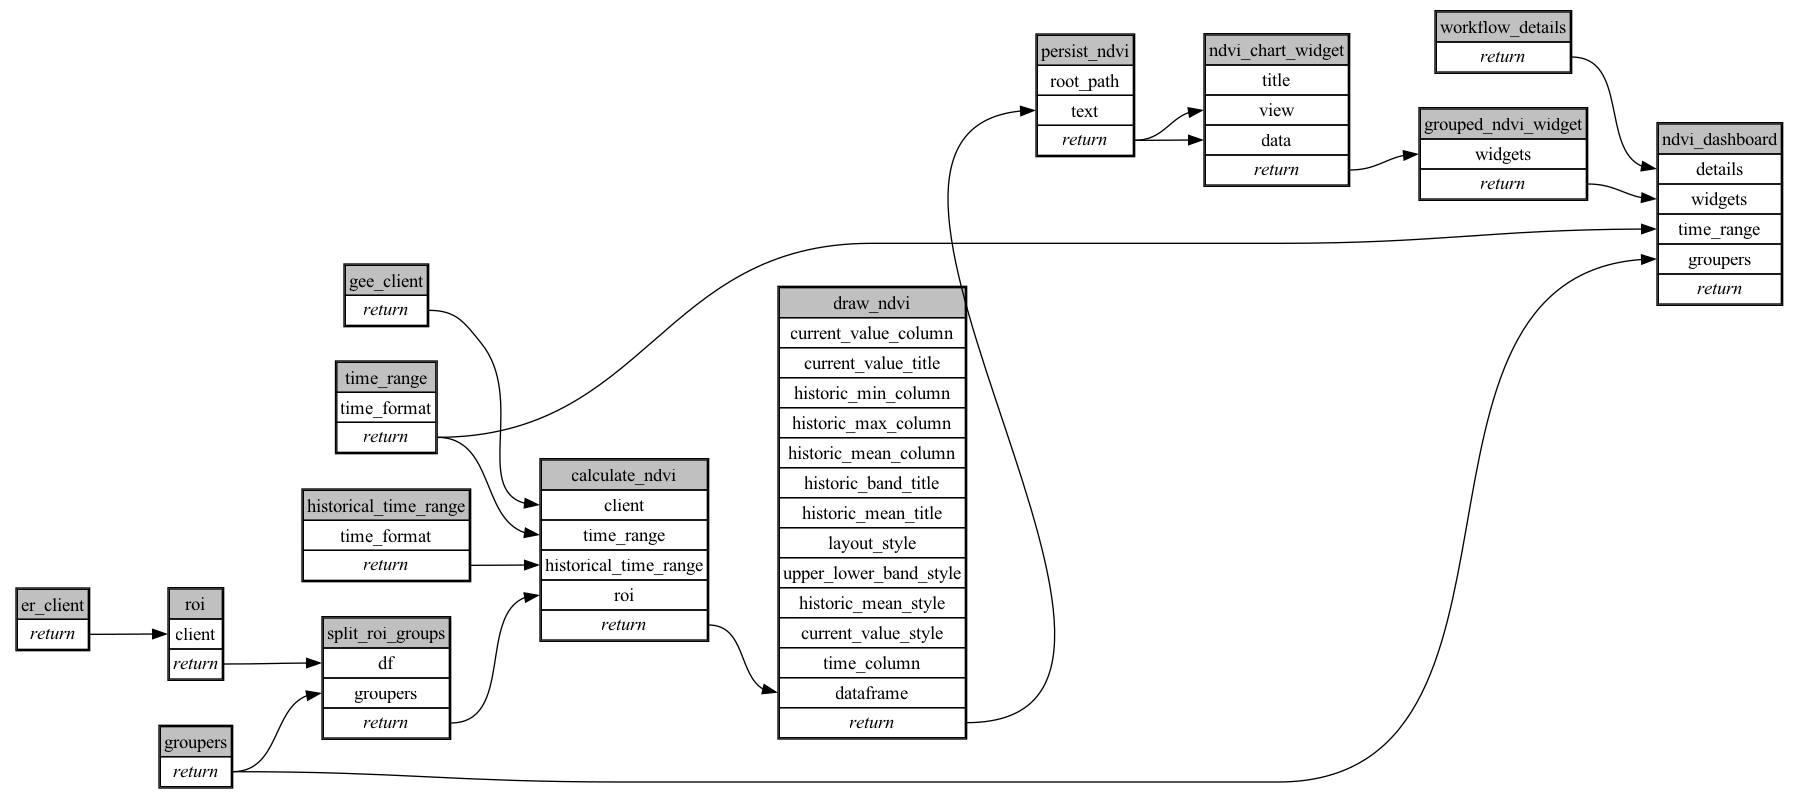
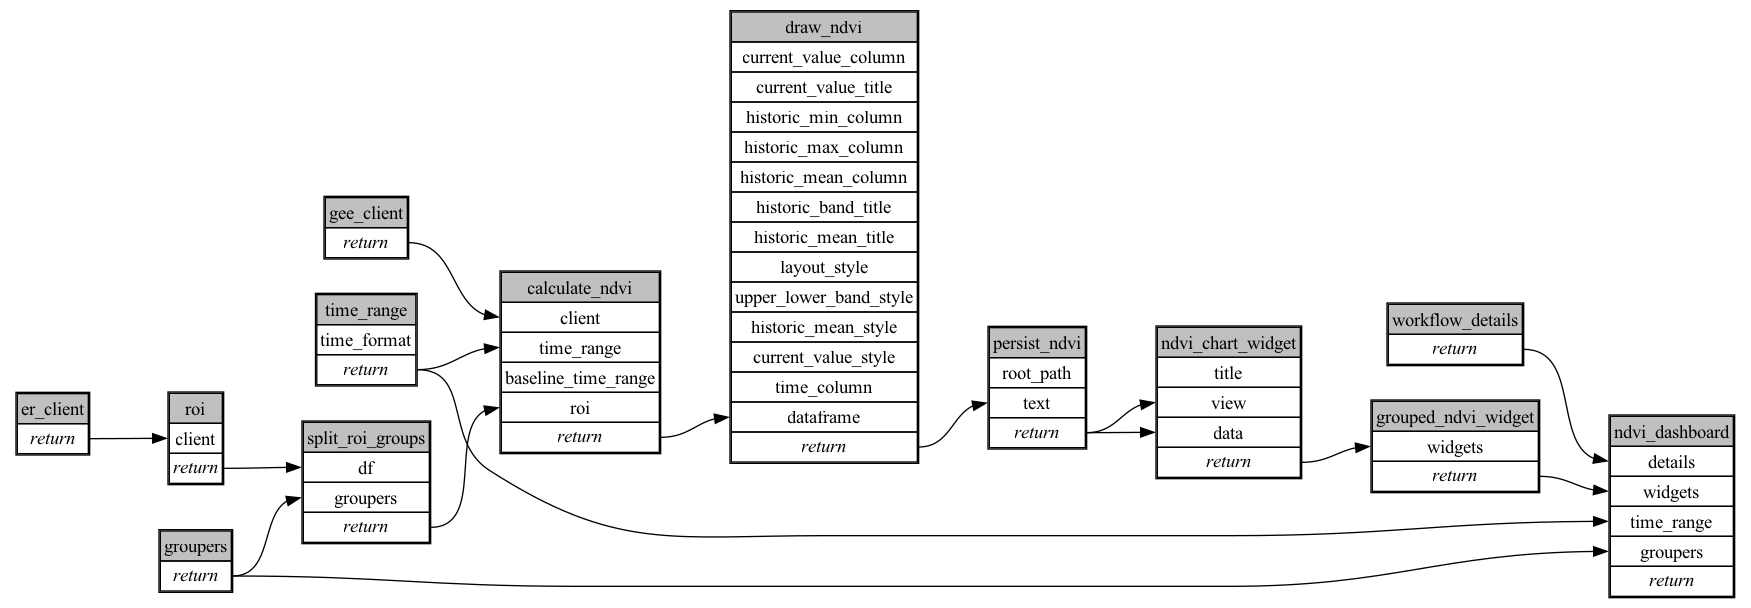
feat: remove historical_time_range, use image_size mode
- Remove historical_time_range task from spec
- Set baseline_time_range to null (Mode A default)
- Remove historical_time_range from all test cases
- Recompile workflow

Changed region(s): [[0.0, 0.0, 1.0, 1.0]]

diff --git a/ecoscope-workflows-ndvi-workflow/ecoscope_workflows_ndvi_workflow/formdata.py b/ecoscope-workflows-ndvi-workflow/ecoscope_workflows_ndvi_workflow/formdata.py
@@ -32,6 +32,11 @@ class CalculateNdvi(BaseModel):
     model_config = ConfigDict(
         extra="forbid",
     )
+    image_size: int | None = Field(
+        1000000000,
+        description="Number of historical satellite images to fetch. Set to a large value to retrieve all available historical data. Only used when baseline_time_range is not provided.",
+        title="Image Size",
+    )
     ndvi_method: NdviMethod | None = Field(
         "precomputed",
         description="Method to obtain NDVI values. 'precomputed': Uses MODIS MYD13A1 16-day composite with pre-calculated NDVI. Provides quality-filtered 'best pixel' values at 500m resolution with ~0.025 accuracy. Better for phenology studies but may saturate in dense canopies. 'calculated': Uses MODIS MCD43A4 daily NBAR (nadir BRDF-adjusted reflectance). Computes NDVI from NIR/Red bands with view-angle correction for consistent measurements. Higher temporal resolution but more susceptible to cloud gaps.",
@@ -149,15 +154,6 @@ class TimeRange(BaseModel):
     timezone: TimezoneInfo | None = Field(None, title="Timezone")
 
 
-class HistoricalTimeRange(BaseModel):
-    model_config = ConfigDict(
-        extra="forbid",
-    )
-    since: datetime = Field(..., description="The start time", title="Since")
-    until: datetime = Field(..., description="The end time", title="Until")
-    timezone: TimezoneInfo | None = Field(None, title="Timezone")
-
-
 class ErClient(BaseModel):
     model_config = ConfigDict(
         extra="forbid",
@@ -205,11 +201,6 @@ class FormData(BaseModel):
     )
     time_range: TimeRange | None = Field(
         None, description="Choose the period of time to analyze.", title="Time Range"
-    )
-    historical_time_range: HistoricalTimeRange | None = Field(
-        None,
-        description="Choose the period of time to analyze.",
-        title="Historical Time Range",
     )
     er_client: ErClient | None = Field(None, title="EarthRanger Data Source")
     groupers: Groupers | None = Field(None, title="Set Groupers")

diff --git a/ecoscope-workflows-ndvi-workflow/ecoscope_workflows_ndvi_workflow/params.py b/ecoscope-workflows-ndvi-workflow/ecoscope_workflows_ndvi_workflow/params.py
@@ -32,6 +32,11 @@ class CalculateNdvi(BaseModel):
     model_config = ConfigDict(
         extra="forbid",
     )
+    image_size: int | None = Field(
+        1000000000,
+        description="Number of historical satellite images to fetch. Set to a large value to retrieve all available historical data. Only used when baseline_time_range is not provided.",
+        title="Image Size",
+    )
     ndvi_method: NdviMethod | None = Field(
         "precomputed",
         description="Method to obtain NDVI values. 'precomputed': Uses MODIS MYD13A1 16-day composite with pre-calculated NDVI. Provides quality-filtered 'best pixel' values at 500m resolution with ~0.025 accuracy. Better for phenology studies but may saturate in dense canopies. 'calculated': Uses MODIS MCD43A4 daily NBAR (nadir BRDF-adjusted reflectance). Computes NDVI from NIR/Red bands with view-angle correction for consistent measurements. Higher temporal resolution but more susceptible to cloud gaps.",
@@ -149,15 +154,6 @@ class TimeRange(BaseModel):
     timezone: TimezoneInfo | None = Field(None, title="Timezone")
 
 
-class HistoricalTimeRange(BaseModel):
-    model_config = ConfigDict(
-        extra="forbid",
-    )
-    since: datetime = Field(..., description="The start time", title="Since")
-    until: datetime = Field(..., description="The end time", title="Until")
-    timezone: TimezoneInfo | None = Field(None, title="Timezone")
-
-
 class ErClient(BaseModel):
     model_config = ConfigDict(
         extra="forbid",
@@ -205,11 +201,6 @@ class Params(BaseModel):
     )
     time_range: TimeRange | None = Field(
         None, description="Choose the period of time to analyze.", title="Time Range"
-    )
-    historical_time_range: HistoricalTimeRange | None = Field(
-        None,
-        description="Choose the period of time to analyze.",
-        title="Historical Time Range",
     )
     er_client: ErClient | None = Field(None, title="EarthRanger Data Source")
     groupers: Groupers | None = Field(None, title="Set Groupers")

diff --git a/ecoscope-workflows-ndvi-workflow/ecoscope_workflows_ndvi_workflow/dags/run_async_mock_io.py b/ecoscope-workflows-ndvi-workflow/ecoscope_workflows_ndvi_workflow/dags/run_async_mock_io.py
@@ -55,17 +55,11 @@ def main(params: Params):
         "workflow_details": [],
         "gee_client": [],
         "time_range": [],
-        "historical_time_range": [],
         "er_client": [],
         "groupers": [],
         "roi": ["er_client"],
         "split_roi_groups": ["roi", "groupers"],
-        "calculate_ndvi": [
-            "gee_client",
-            "time_range",
-            "historical_time_range",
-            "split_roi_groups",
-        ],
+        "calculate_ndvi": ["gee_client", "time_range", "split_roi_groups"],
         "draw_ndvi": ["calculate_ndvi"],
         "persist_ndvi": ["draw_ndvi"],
         "ndvi_chart_widget": ["persist_ndvi"],
@@ -107,18 +101,6 @@ def main(params: Params):
                 "time_format": "%d %b %Y %H:%M:%S %Z",
             }
             | (params_dict.get("time_range") or {}),
-            method="call",
-        ),
-        "historical_time_range": Node(
-            async_task=set_time_range.validate()
-            .set_task_instance_id("historical_time_range")
-            .handle_errors()
-            .with_tracing()
-            .set_executor("lithops"),
-            partial={
-                "time_format": "%d %b %Y %H:%M:%S %Z",
-            }
-            | (params_dict.get("historical_time_range") or {}),
             method="call",
         ),
         "er_client": Node(
@@ -173,7 +155,7 @@ def main(params: Params):
             partial={
                 "client": DependsOn("gee_client"),
                 "time_range": DependsOn("time_range"),
-                "historical_time_range": DependsOn("historical_time_range"),
+                "baseline_time_range": None,
             }
             | (params_dict.get("calculate_ndvi") or {}),
             method="mapvalues",

diff --git a/ecoscope-workflows-ndvi-workflow/ecoscope_workflows_ndvi_workflow/dags/run_async.py b/ecoscope-workflows-ndvi-workflow/ecoscope_workflows_ndvi_workflow/dags/run_async.py
@@ -39,17 +39,11 @@ def main(params: Params):
         "workflow_details": [],
         "gee_client": [],
         "time_range": [],
-        "historical_time_range": [],
         "er_client": [],
         "groupers": [],
         "roi": ["er_client"],
         "split_roi_groups": ["roi", "groupers"],
-        "calculate_ndvi": [
-            "gee_client",
-            "time_range",
-            "historical_time_range",
-            "split_roi_groups",
-        ],
+        "calculate_ndvi": ["gee_client", "time_range", "split_roi_groups"],
         "draw_ndvi": ["calculate_ndvi"],
         "persist_ndvi": ["draw_ndvi"],
         "ndvi_chart_widget": ["persist_ndvi"],
@@ -91,18 +85,6 @@ def main(params: Params):
                 "time_format": "%d %b %Y %H:%M:%S %Z",
             }
             | (params_dict.get("time_range") or {}),
-            method="call",
-        ),
-        "historical_time_range": Node(
-            async_task=set_time_range.validate()
-            .set_task_instance_id("historical_time_range")
-            .handle_errors()
-            .with_tracing()
-            .set_executor("lithops"),
-            partial={
-                "time_format": "%d %b %Y %H:%M:%S %Z",
-            }
-            | (params_dict.get("historical_time_range") or {}),
             method="call",
         ),
         "er_client": Node(
@@ -157,7 +139,7 @@ def main(params: Params):
             partial={
                 "client": DependsOn("gee_client"),
                 "time_range": DependsOn("time_range"),
-                "historical_time_range": DependsOn("historical_time_range"),
+                "baseline_time_range": None,
             }
             | (params_dict.get("calculate_ndvi") or {}),
             method="mapvalues",

diff --git a/ecoscope-workflows-ndvi-workflow/ecoscope_workflows_ndvi_workflow/dags/jupytext.py b/ecoscope-workflows-ndvi-workflow/ecoscope_workflows_ndvi_workflow/dags/jupytext.py
@@ -112,31 +112,6 @@ time_range = (
 
 
 # %% [markdown]
-# ## Historical Time Range
-
-# %%
-# parameters
-
-historical_time_range_params = dict(
-    since=...,
-    until=...,
-    timezone=...,
-)
-
-# %%
-# call the task
-
-
-historical_time_range = (
-    set_time_range.set_task_instance_id("historical_time_range")
-    .handle_errors()
-    .with_tracing()
-    .partial(time_format="%d %b %Y %H:%M:%S %Z", **historical_time_range_params)
-    .call()
-)
-
-
-# %% [markdown]
 # ## EarthRanger Data Source
 
 # %%
@@ -233,6 +208,7 @@ split_roi_groups = (
 # parameters
 
 calculate_ndvi_params = dict(
+    image_size=...,
     ndvi_method=...,
     grouping_unit=...,
 )
@@ -248,7 +224,7 @@ calculate_ndvi = (
     .partial(
         client=gee_client,
         time_range=time_range,
-        historical_time_range=historical_time_range,
+        baseline_time_range=None,
         **calculate_ndvi_params,
     )
     .mapvalues(argnames=["roi"], argvalues=split_roi_groups)

diff --git a/ecoscope-workflows-ndvi-workflow/ecoscope_workflows_ndvi_workflow/dags/run_sequential.py b/ecoscope-workflows-ndvi-workflow/ecoscope_workflows_ndvi_workflow/dags/run_sequential.py
@@ -63,18 +63,6 @@ def main(params: Params):
         .call()
     )
 
-    historical_time_range = (
-        set_time_range.validate()
-        .set_task_instance_id("historical_time_range")
-        .handle_errors()
-        .with_tracing()
-        .partial(
-            time_format="%d %b %Y %H:%M:%S %Z",
-            **(params_dict.get("historical_time_range") or {}),
-        )
-        .call()
-    )
-
     er_client = (
         set_er_connection.validate()
         .set_task_instance_id("er_client")
@@ -121,7 +109,7 @@ def main(params: Params):
         .partial(
             client=gee_client,
             time_range=time_range,
-            historical_time_range=historical_time_range,
+            baseline_time_range=None,
             **(params_dict.get("calculate_ndvi") or {}),
         )
         .mapvalues(argnames=["roi"], argvalues=split_roi_groups)

diff --git a/ecoscope-workflows-ndvi-workflow/ecoscope_workflows_ndvi_workflow/dags/run_sequential_mock_io.py b/ecoscope-workflows-ndvi-workflow/ecoscope_workflows_ndvi_workflow/dags/run_sequential_mock_io.py
@@ -79,18 +79,6 @@ def main(params: Params):
         .call()
     )
 
-    historical_time_range = (
-        set_time_range.validate()
-        .set_task_instance_id("historical_time_range")
-        .handle_errors()
-        .with_tracing()
-        .partial(
-            time_format="%d %b %Y %H:%M:%S %Z",
-            **(params_dict.get("historical_time_range") or {}),
-        )
-        .call()
-    )
-
     er_client = (
         set_er_connection.validate()
         .set_task_instance_id("er_client")
@@ -137,7 +125,7 @@ def main(params: Params):
         .partial(
             client=gee_client,
             time_range=time_range,
-            historical_time_range=historical_time_range,
+            baseline_time_range=None,
             **(params_dict.get("calculate_ndvi") or {}),
         )
         .mapvalues(argnames=["roi"], argvalues=split_roi_groups)

diff --git a/ecoscope-workflows-ndvi-workflow/README.md b/ecoscope-workflows-ndvi-workflow/README.md
@@ -5,8 +5,8 @@
 
 ```yaml
 # fingerprint:
-artifacts_sha256_basic: 5515d2dca579ebd8350f52653f2a9cd8cd39ce54a67ee5f1bf518e6843053bd1
-artifacts_sha256_strict: 6514a422c9b7231d5673c4fd198018c1982bd0afcf8d9b8dcb44f49c79297afa
+artifacts_sha256_basic: 5bfcfb55f079916cf128f9497369e5ae3a8f1ddc132028904ed2ebbdebbd4f00
+artifacts_sha256_strict: 7e17b3f270059deb98d036370525212fe0568b088163ef5ebae79694dcecdaa6
 installed_requirements:
 - channel: https://repo.prefix.dev/ecoscope-workflows/
   name: ecoscope-workflows-core
@@ -17,8 +17,8 @@ installed_requirements:
 - channel: https://repo.prefix.dev/ecoscope-workflows-custom/
   name: ecoscope-workflows-ext-custom
   version: {version: ==0.0.28}
-params_sha256: 12517a1732532ead72c2adeb65e8eafe9474addc7c4aaaa972d6be263e6416bf
-spec_sha256: a21e28f4cd2c25c75ba86df51d827c32fde1185e78bd4f3f8495fe89dd23c41d
+params_sha256: dd6447d9acdd2b2e3711c0faf1a7d2f897a31a7c9cc57ed2db95d0dba844b7a3
+spec_sha256: e57f6d837cb740afe9ec5dd9de960c61d50636d40c940c28894702a01c57da49
 
 ```
 
